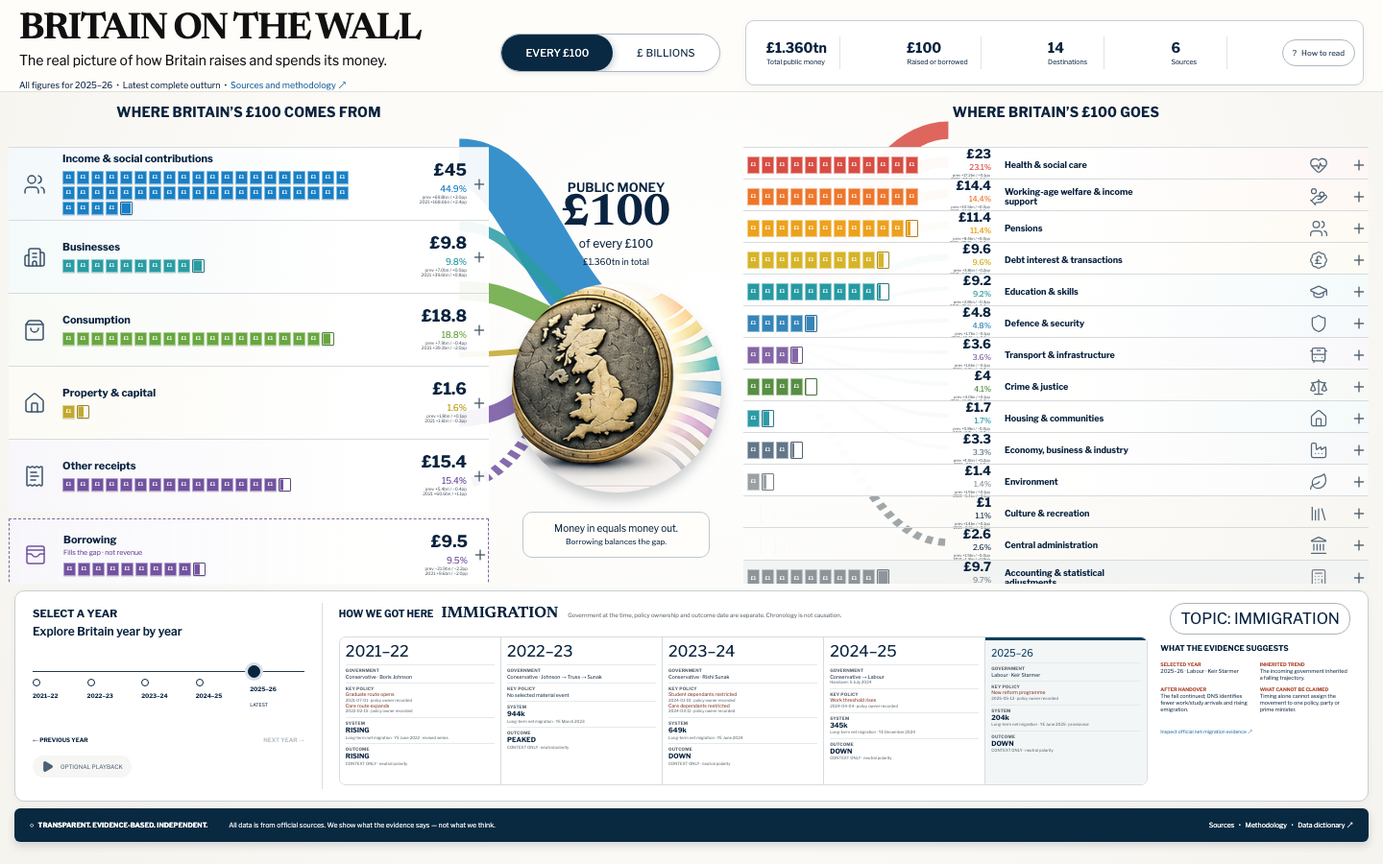
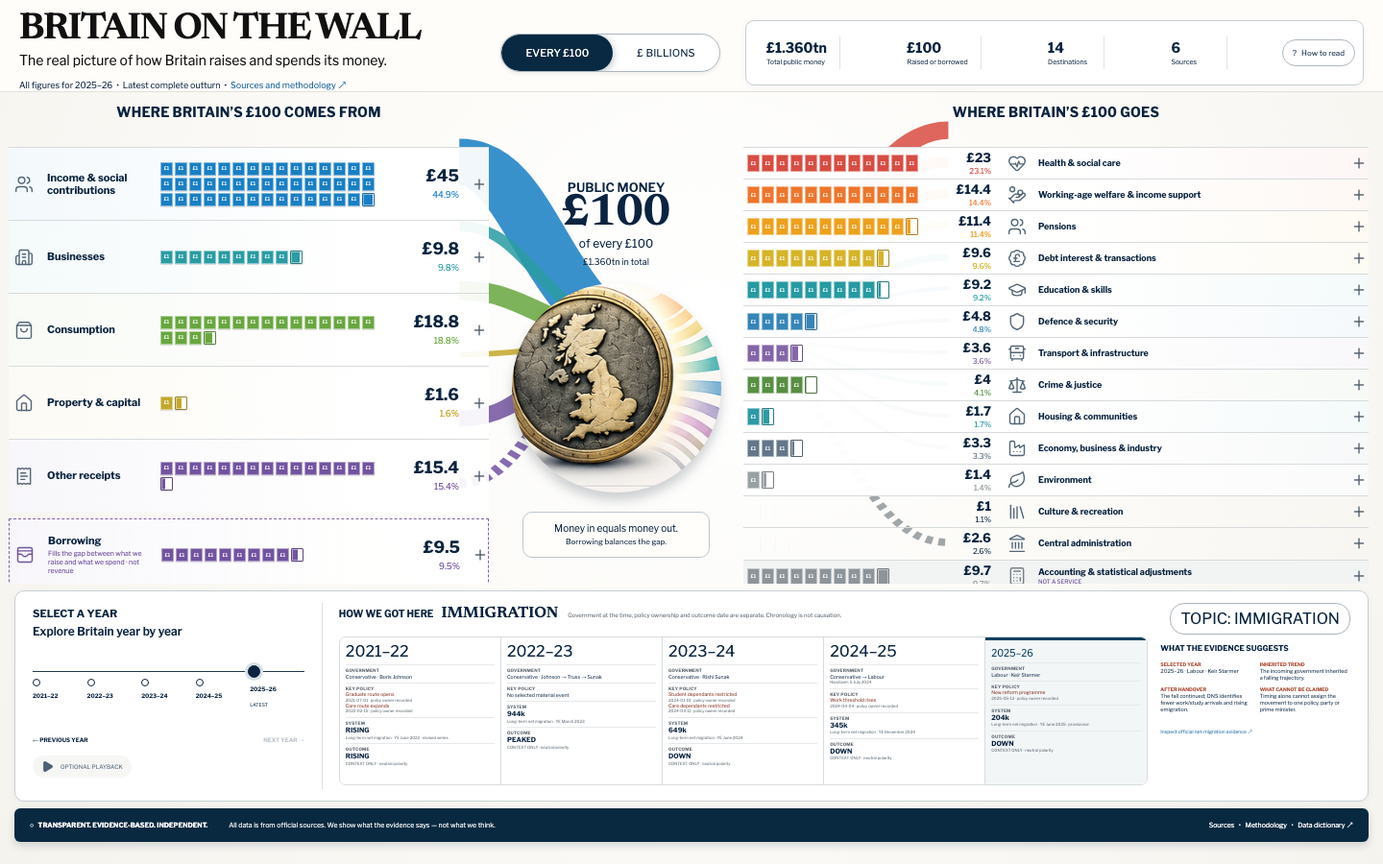
Remove national row artwork

diff --git a/src/national.css b/src/national.css
@@ -5,15 +5,15 @@ html:has(.national-wall),body:has(.national-wall),#root:has(.national-wall){widt
 .editorial-header{height:96px;display:grid;grid-template-columns:475px 245px 1fr;align-items:center;gap:18px;padding:13px 20px 9px;background:#fffdfa;border-bottom:1px solid #e3e1db}.brand-lockup{align-self:start}.wordmark{display:block;color:#111;text-decoration:none;font:650 38px/.95 Newsreader,Georgia,serif;letter-spacing:-.035em}.brand-lockup p{margin:5px 0 6px;color:#111;font-size:14px}.brand-lockup small{font-size:9px;color:var(--navy)}.brand-lockup small button{border:0;background:none;padding:0;color:#0e5d9c}.unit-toggle{display:flex;justify-self:center;border:1px solid #adb7c0;border-radius:24px;overflow:hidden;background:white;box-shadow:0 2px 4px #09223a12}.unit-toggle button{height:38px;border:0;background:transparent;padding:0 25px;font-size:11px}.unit-toggle .active{background:#092942;color:white;border-radius:22px;box-shadow:0 2px 8px #09294255}.header-summary{height:68px;display:flex;align-items:center;justify-content:space-between;border:1px solid #c7ced3;border-radius:9px;padding:7px 8px;background:#fff;box-shadow:0 2px 8px #14263a0b}.header-summary>span{min-width:72px;padding:3px 13px;border-right:1px solid #e1e4e5}.header-summary b,.header-summary small{display:block}.header-summary b{font-size:14px}.header-summary small{font-size:7px;margin-top:2px}.header-summary>button{border:1px solid #aeb8bf;border-radius:18px;background:white;padding:8px 10px;font-size:8px;white-space:nowrap}.read-note{position:absolute;right:20px;top:90px;z-index:20;width:300px;padding:12px;background:#fff;border:1px solid var(--rule);box-shadow:0 7px 18px #14263a1f;font-size:10px}
 .money-stage{height:512px;display:grid;grid-template-columns:500px 265px 1fr;gap:0;padding:9px 15px 0 9px;position:relative;overflow:hidden}.fiscal-column,.pool-column{position:relative;z-index:2}.section-heading{height:43px;text-align:center}.section-heading small{display:none}.section-heading h1{margin:5px 0 0;font-size:14px;line-height:1;text-transform:uppercase;letter-spacing:.015em}.section-heading h1 br{display:none}.section-heading h1 em{font-style:normal}
 .editorial-flows{position:absolute;inset:0;width:100%;height:100%;z-index:1;pointer-events:none}.editorial-flows path{fill:none;stroke-linecap:butt;opacity:.86}.editorial-flows .borrow-flow,.editorial-flows .technical-flow{stroke-dasharray:7 6}
-.fiscal-row{width:100%;border:0;border-top:1px solid #d7dbdc;background:linear-gradient(90deg,color-mix(in srgb,var(--row-colour) 8%,#fff) 0,#ffffffda 72%);text-align:left;padding:0;position:relative}.fiscal-row:hover{background:#fff}.sources .fiscal-row{height:76px;display:grid;grid-template-columns:56px 326px 100px 18px;align-items:center}.row-copy strong,.row-copy small{display:block}.sources .row-copy{align-self:center}.sources .row-copy strong{font-size:11px;line-height:1.15}.row-copy small{font-size:7px;margin-top:2px;color:#7253a0}.row-number{text-align:right;padding-right:5px}.row-number b,.row-number em,.row-number small{display:block}.row-number b{font-size:17px;line-height:1}.row-number em{font-size:9px;font-style:normal;color:var(--row-colour);margin-top:5px}.row-number small{font-size:6px;color:var(--muted);margin-top:2px}.row-number small span{display:block}.expand{font-size:16px;color:#55636f}
+.fiscal-row{width:100%;border:0;border-top:1px solid #d7dbdc;background:linear-gradient(90deg,color-mix(in srgb,var(--row-colour) 8%,#fff) 0,#ffffffda 72%);text-align:left;padding:0;position:relative}.fiscal-row:hover{background:#fff}.sources .fiscal-row{height:76px;display:grid;grid-template-columns:32px minmax(110px,1fr) 220px 88px 18px;column-gap:8px;align-items:center}.row-icon{display:grid;place-items:center;color:#536779}.row-icon svg{width:20px;height:20px;stroke-width:1.7}.row-copy strong,.row-copy small{display:block}.sources .row-copy{align-self:center}.sources .row-copy strong{font-size:11px;line-height:1.15}.row-copy small{font-size:7px;margin-top:2px;color:#7253a0}.row-number{text-align:right;padding-right:5px}.row-number b,.row-number em{display:block}.row-number b{font-size:17px;line-height:1}.row-number em{font-size:9px;font-style:normal;color:var(--row-colour);margin-top:5px}.expand{font-size:16px;color:#55636f}
 .unit-tokens{display:grid;grid-template-columns:repeat(20,13px);grid-auto-rows:14px;gap:2px;margin-top:6px;max-width:298px}.unit-tokens i{position:relative;width:13px;height:14px;background:var(--token-colour);border-radius:1px;box-shadow:inset 0 0 0 1px #ffffff77,0 1px 1px #0002}.unit-tokens i:after{content:'£1';position:absolute;inset:0;display:grid;place-items:center;color:white;font-style:normal;font-size:5px;line-height:1}.unit-tokens i.partial{background:linear-gradient(90deg,var(--token-colour) var(--fill),transparent var(--fill));border:1px solid color-mix(in srgb,var(--token-colour) 70%,#333)}.unit-tokens i.partial:after{display:none}.fiscal-row.borrowing{margin-top:7px;border:1px dashed #8064a2;background:#faf8fc}
-.destinations .fiscal-row{height:33px;display:grid;grid-template-columns:185px 78px 150px minmax(54px,1fr) 20px;align-items:center;background:linear-gradient(90deg,#fff 0,#ffffffea 55%,color-mix(in srgb,var(--row-colour) 5%,#fff))}.destinations .row-copy{display:contents}.destinations .unit-tokens{grid-column:1;grid-row:1;margin:0 0 0 4px;display:flex;gap:2px;max-width:180px;overflow:hidden}.destinations .unit-tokens i{width:13px;height:18px;flex:0 0 13px}.destinations .row-number{grid-column:2;grid-row:1}.destinations .row-number b{font-size:13px}.destinations .row-number em{font-size:8px;margin-top:2px}.destinations .row-number small{display:none}.destinations .row-copy strong{grid-column:3;grid-row:1;padding-left:9px;font-size:9px;line-height:1.08}.destinations .row-copy>small{grid-column:3;grid-row:1;align-self:end;padding:0 0 3px 9px;font-size:6px}.destinations .expand{grid-column:5;grid-row:1;text-align:center}.destinations .technical{margin-top:1px;background:#f2f3f3}.destinations .technical .unit-tokens i{background:#8d959a}
+.destinations .fiscal-row{height:33px;display:grid;grid-template-columns:185px 70px 28px minmax(120px,1fr) 20px;column-gap:8px;align-items:center;background:linear-gradient(90deg,#fff 0,#ffffffea 55%,color-mix(in srgb,var(--row-colour) 5%,#fff))}.destinations .unit-tokens{grid-column:1;grid-row:1;margin:0 0 0 4px;display:flex;gap:2px;max-width:180px;overflow:hidden}.destinations .unit-tokens i{width:13px;height:18px;flex:0 0 13px}.destinations .row-number{grid-column:2;grid-row:1}.destinations .row-number b{font-size:13px}.destinations .row-number em{font-size:8px;margin-top:2px}.destinations .row-icon{grid-column:3;grid-row:1}.destinations .row-copy{grid-column:4;grid-row:1}.destinations .row-copy strong{font-size:9px;line-height:1.08}.destinations .row-copy>small{font-size:6px}.destinations .expand{grid-column:5;grid-row:1;text-align:center}.destinations .technical{margin-top:1px;background:#f2f3f3}.destinations .technical .unit-tokens i{background:#8d959a}
 .pool-column{display:flex;flex-direction:column;align-items:center;text-align:center;padding-top:82px}.pool-label span,.pool-label strong,.pool-label em,.pool-label small{display:block}.pool-label span{font-size:13px;font-weight:600}.pool-label strong{font:650 45px/.95 Newsreader,Georgia,serif}.pool-label em{font-style:normal;font-size:12px}.pool-label small{font-size:9px;margin-top:6px}.pool-object{width:218px;height:218px;margin-top:17px;border-radius:50%;background:url('/illustrations/britain-medallion-reference.png') center/cover no-repeat;filter:drop-shadow(0 8px 6px #17253636)}.pool-object:before,.britain-mark{display:none}.pool-column>p{width:195px;margin:20px 0 0;padding:10px 12px;border:1px solid #bec7cc;border-radius:10px;background:#fffefa;font-size:10px;line-height:1.3}.pool-column>p small{font-size:8px}
 .lower-editorial{height:220px;margin:7px 15px;border:1px solid #c9cfd2;border-radius:10px;background:#fff;display:grid;grid-template-columns:22% 78%;gap:0;padding:12px 18px;box-shadow:0 2px 10px #12263b0b}.time-panel{padding-right:18px;border-right:1px solid #d9dddf}.time-panel>small,.change-summary>small{font-size:11px;font-weight:700}.time-panel h2{font:600 12px Libre Franklin;margin:3px 0 0}.years{margin-top:34px;display:grid;grid-template-columns:repeat(5,1fr);border-top:1px solid #20384e}.years button{border:0;background:none;padding:0;text-align:left;transform:translateY(-5px)}.years i{display:block;width:8px;height:8px;border-radius:50%;border:1px solid #0a2440;background:white}.years b{display:block;font-size:6px;margin-top:6px}.years span{font-size:5px}.years .active i{width:13px;height:13px;background:#0a2440;box-shadow:0 0 0 3px #d8e0e5;transform:translate(-2px,-2px)}.story-button{margin-top:24px;border:0;border-radius:20px;background:#f3f3f1;padding:7px 12px;display:flex;align-items:center;gap:7px;font-size:8px}.story-button svg{width:17px;height:17px;fill:#0a2440}.change-summary{padding:0 18px;border-right:1px solid #d9dddf}.change-summary>div{display:grid;grid-template-columns:1fr 1fr;gap:8px 12px;margin-top:11px}.change-summary>div span{border-left:2px solid #319a5b;padding-left:6px}.change-summary b,.change-summary em{display:block;font-size:6.5px}.change-summary em{font-style:normal;margin-top:2px}.change-summary p{font-size:8px}.changes-button{float:right;margin-top:8px;border:1px solid #aeb8bf;border-radius:15px;background:#fff;padding:6px 12px;font-size:7px}.outcomes-panel{padding-left:17px}.outcomes-panel header{display:flex;justify-content:space-between}.outcomes-panel header small{font-size:11px;font-weight:700}.outcomes-panel header span{font-size:6px;color:var(--muted)}.outcomes-panel>div{display:grid;grid-template-columns:repeat(5,1fr);margin-top:23px}.outcomes-panel article{text-align:center;border-right:1px solid #e0e3e4}.outcomes-panel article:last-child{border:0}.outcomes-panel svg{width:30px;height:30px;stroke-width:1.5}.outcomes-panel b,.outcomes-panel span{display:block}.outcomes-panel b{font-size:7px;margin-top:6px}.outcomes-panel span{font-size:5px;color:var(--muted);margin-top:3px}
 .editorial-footer{height:35px;margin:0 15px 5px;border-radius:6px;background:#082940;color:white;display:flex;align-items:center;gap:22px;padding:0 16px;font-size:7px;box-shadow:0 4px 9px #09223a28}.editorial-footer span{opacity:.88}.editorial-footer nav{margin-left:auto}
 .drawer-scrim,.drawer{position:fixed}
-@media(min-width:1700px){.national-wall{max-width:1920px;margin:auto}.money-stage{grid-template-columns:630px 340px 1fr;height:666px}.sources .fiscal-row{grid-template-columns:60px 440px 110px 20px;height:99px}.destinations .fiscal-row{height:43px;grid-template-columns:250px 70px 180px minmax(54px,1fr) 22px}.lower-editorial{height:220px}}
-@media(max-width:1000px){.editorial-header{height:auto;grid-template-columns:1fr auto;padding:14px}.header-summary{grid-column:1/-1}.money-stage{height:auto;grid-template-columns:1fr;padding:15px}.editorial-flows{display:none}.pool-column{grid-row:1;padding:25px}.fiscal-column{max-width:720px;margin:auto;width:100%}.sources .fiscal-row{grid-template-columns:145px 1fr 90px 18px}.destinations .fiscal-row{height:45px;grid-template-columns:200px 60px 120px 1fr 20px}.lower-editorial{height:auto;grid-template-columns:1fr}.history-panel{border-right:0;border-bottom:1px solid;padding-bottom:20px}.outcomes-panel{padding:20px 0}.editorial-footer{height:auto;padding:12px;flex-wrap:wrap}.editorial-footer nav{margin-left:0}}
+@media(min-width:1700px){.national-wall{max-width:1920px;margin:auto}.money-stage{grid-template-columns:630px 340px 1fr;height:666px}.sources .fiscal-row{grid-template-columns:32px minmax(160px,1fr) 280px 100px 20px;height:99px}.destinations .fiscal-row{height:43px;grid-template-columns:250px 75px 30px minmax(150px,1fr) 22px}.lower-editorial{height:220px}}
+@media(max-width:1000px){.editorial-header{height:auto;grid-template-columns:1fr auto;padding:14px}.header-summary{grid-column:1/-1}.money-stage{height:auto;grid-template-columns:1fr;padding:15px}.editorial-flows{display:none}.pool-column{grid-row:1;padding:25px}.fiscal-column{max-width:720px;margin:auto;width:100%}.sources .fiscal-row{grid-template-columns:32px minmax(150px,1fr) 220px 90px 18px}.destinations .fiscal-row{height:45px;grid-template-columns:160px 70px 28px minmax(120px,1fr) 20px}.lower-editorial{height:auto;grid-template-columns:1fr}.history-panel{border-right:0;border-bottom:1px solid;padding-bottom:20px}.outcomes-panel{padding:20px 0}.editorial-footer{height:auto;padding:12px;flex-wrap:wrap}.editorial-footer nav{margin-left:0}}
 @media(prefers-reduced-motion:reduce){*{animation:none!important;transition:none!important}}
 .event-dot.dependants span,.event-dot.dependants small{transform:translateX(-42px)}
 .event-dot.salary span,.event-dot.salary small{transform:translateX(34px)}
@@ -22,23 +22,16 @@ html:has(.national-wall),body:has(.national-wall),#root:has(.national-wall){widt
 .years:focus-visible{outline:2px solid #17658d;outline-offset:5px}.year-step{display:flex;justify-content:space-between;margin-top:22px}.year-step button{border:0;background:none;padding:0;font-size:6px;font-weight:700}.year-step button:disabled{opacity:.28}.time-panel .story-button{margin-top:13px;padding:5px 9px;font-size:6px;opacity:.72}.time-panel .story-button svg{width:13px;height:13px}.selected-window{position:absolute;top:0;height:27px;background:#e8d9b755;border:1px solid #c9a75c;z-index:0}.government-track .track-line>button{z-index:1}
 .story-chronology{min-width:0;padding-left:17px}.story-chronology>header{height:35px;display:flex;align-items:flex-start;justify-content:space-between}.story-chronology header small{font-size:10px;font-weight:700}.story-chronology header h2{display:inline;margin:0 0 0 8px;font:650 16px Newsreader,Georgia,serif;text-transform:uppercase}.story-chronology header span{display:inline;margin-left:10px;font-size:6px;color:#68727a}.topic-selector{border:1px solid #aab5bd;background:#fff;border-radius:15px;padding:6px 10px;font-size:7px}.story-body{display:grid;grid-template-columns:minmax(0,75%) 25%;height:155px}.story-tracks{position:relative;padding-right:13px;border-right:1px solid #d9dddf}.story-track{height:35px;display:grid;grid-template-columns:115px 1fr;align-items:center}.story-track>b{font-size:6px;letter-spacing:.04em}.track-line{height:27px;position:relative;border-bottom:1px solid #cbd1d4}.government-track .track-line>button{position:absolute;top:4px;height:21px;border:0;border-left:2px solid #6c7881;background:#eef0ef;text-align:left;padding:3px 5px;overflow:hidden}.government-track .track-line>button:last-of-type{background:#eeeae4}.government-track strong,.government-track small{display:block;white-space:nowrap;font-size:6px}.government-track small{font-size:5px;color:#68727a}.handover{position:absolute;top:-4px;height:35px;border-left:2px solid #c45c43;z-index:5}.handover span{position:absolute;top:-7px;left:3px;font:700 5px Libre Franklin;color:#a84433}.policy-track{height:48px}.policy-track .track-line{height:44px}.event-dot{position:absolute;top:1px;width:58px;transform:translateX(-3px);border:0;background:none;text-align:left;padding:0}.event-dot.row-1{top:15px}.event-dot.row-2{top:29px}.event-dot>i{display:block;width:7px;height:7px;border-radius:50%;background:#b25b3d;border:2px solid #fff;box-shadow:0 0 0 1px #b25b3d}.event-dot span,.event-dot small{display:block;font-size:5px;line-height:1.05}.event-dot small{color:#9b4d38;font-size:4px;margin-top:1px}.system-track{height:38px}.system-track .track-line{height:32px}.trend svg{position:absolute;inset:1px 0 0;width:100%;height:28px;overflow:visible}.trend path{fill:none;stroke:#267e91;stroke-width:2}.trend line{stroke:#c45c43;stroke-width:.35;stroke-dasharray:2 1}.trend>button{position:absolute;top:0;transform:translateX(-5px);border:0;background:none;padding:0;text-align:left}.trend>button i{display:block;width:7px;height:7px;border-radius:50%;background:#267e91}.trend>button strong,.trend>button span{display:block;font-size:5px;white-space:nowrap}.trend>button span{font-size:4px}.outcome-track{height:28px}.outcome-track .track-line{display:flex;align-items:center;justify-content:space-between;border-bottom:0}.outcome-track span,.outcome-track em{font-size:5px}.outcome-track em{font-style:normal;font-weight:700;color:#267e91}.story-years{position:absolute;left:115px;right:13px;bottom:-1px}.story-years span{position:absolute;font-size:5px;color:#6c757c}.evidence-summary{padding-left:13px}.evidence-summary>b{font-size:8px}.evidence-summary dl{margin:7px 0;display:grid;grid-template-columns:1fr 1fr;gap:5px 9px}.evidence-summary dl>div{margin:0}.evidence-summary dt{font-size:5px;font-weight:700;color:#b1533c}.evidence-summary dd{margin:1px 0 0;font-size:5.5px;line-height:1.25}.evidence-summary p{margin:4px 0;padding-top:5px;border-top:1px solid #d6dadd;font-size:6px}.evidence-summary p strong{color:#b1533c}
 
-/* Clean national UI: functional icon + label, never decorative scene art. */
-.sources .fiscal-row{grid-template-columns:56px 326px 100px 18px;background:linear-gradient(90deg,color-mix(in srgb,var(--row-colour) 5%,#fff),#ffffffed 72%)}
-.category-icon{display:grid;place-items:center;color:var(--row-colour)}
-.category-icon svg{width:24px;height:24px;stroke-width:1.5}
-.sources .category-icon{width:42px;height:42px;margin-left:6px;color:#38536a}
-.sources .unit-tokens{grid-template-columns:repeat(20,13px);max-width:298px}
-.destinations .fiscal-row{grid-template-columns:185px 78px 150px minmax(54px,1fr) 20px}
-.destinations .row-copy strong,.destinations .row-copy>small{grid-column:3}
-.destinations .category-icon{grid-column:4;grid-row:1;justify-self:end;width:48px;height:28px;margin-right:8px;color:#536779}
-.destinations .category-icon svg{width:20px;height:20px}
-.fiscal-row.borrowing .category-icon{color:#7253a0}
-.fiscal-row.technical .category-icon{color:#778087}
+/* Clean national UI: functional icon + label, never decorative row artwork. */
+.sources .fiscal-row{background:linear-gradient(90deg,color-mix(in srgb,var(--row-colour) 5%,#fff),#ffffffed 72%)}
+.sources .unit-tokens{grid-template-columns:repeat(15,13px);max-width:220px;margin-top:0}
+.fiscal-row.borrowing .row-icon{color:#7253a0}
+.fiscal-row.technical .row-icon{color:#778087}
 @media(max-width:600px){
   .national-wall{overflow-x:hidden}.editorial-header{grid-template-columns:1fr;gap:10px;padding:14px}.wordmark{font-size:36px;max-width:330px}.brand-lockup p{max-width:340px;line-height:1.25}.header-unit-toggle{justify-self:start}.header-summary{grid-column:1;width:100%;height:58px}.header-summary>span{min-width:0;flex:1;padding:3px 7px}.header-summary>button{display:none}
   .money-stage{padding:12px 14px}.pool-column{padding:28px 0 34px}.pool-object{width:210px;height:210px}
-  .sources .fiscal-row{grid-template-columns:46px minmax(0,1fr) 82px 18px}.sources .category-icon{width:36px;height:36px;margin-left:1px}.sources .unit-tokens{grid-template-columns:repeat(10,13px);max-width:148px}
-  .destinations .fiscal-row{grid-template-columns:120px 65px minmax(0,1fr) 34px 18px}.destinations .unit-tokens{max-width:116px}.destinations .category-icon{width:30px;margin-right:1px}.destinations .row-copy strong{padding-left:5px;font-size:8px}
+  .sources .fiscal-row{grid-template-columns:28px minmax(100px,1fr) minmax(130px,148px) 72px 18px;column-gap:4px}.sources .unit-tokens{grid-template-columns:repeat(10,13px);max-width:148px}
+  .destinations .fiscal-row{grid-template-columns:116px 58px 24px minmax(100px,1fr) 18px;column-gap:4px}.destinations .unit-tokens{max-width:116px}.destinations .row-copy strong{font-size:8px}
   .lower-editorial{margin:7px 10px;padding:14px;grid-template-columns:1fr}.time-panel{padding:0 0 14px;border-right:0;border-bottom:1px solid #d9dddf}.story-chronology{padding:14px 0 0}.story-body{grid-template-columns:1fr;height:auto}.story-tracks{border-right:0;padding-right:0}.evidence-summary{padding:12px 0 0}.story-chronology>header{height:auto;gap:8px}.story-chronology header span{display:block;margin:4px 0}.topic-selector{white-space:nowrap}
 }
 

diff --git a/src/App.test.tsx b/src/App.test.tsx
@@ -9,8 +9,8 @@ describe('approved £100 national Wall',()=>{
   it('states the public-money question in the primary composition',()=>{render(<App/>);expect(screen.getByRole('heading',{name:'Where Britain’s £100 comes from'})).toBeInTheDocument();expect(screen.getByRole('heading',{name:'Where Britain’s £100 goes'})).toBeInTheDocument();expect(screen.getByText('of every £100')).toBeInTheDocument()});
   it('shows the reconciled real national pool',()=>{render(<App/>);expect(screen.getAllByText('£1.360tn').length).toBeGreaterThan(0);expect(screen.getAllByText('£100').length).toBeGreaterThan(0);expect(screen.getByText('Raised or borrowed')).toBeInTheDocument()});
   it('uses the approved stable source order',()=>{render(<App/>);const sources=screen.getAllByRole('button',{name:/percent\. Previous:/}).slice(0,6);expect(sources[0]).toHaveAccessibleName(/Income & social contributions £45, 44.9 percent/);expect(sources[1]).toHaveAccessibleName(/Businesses £9.8/)});
-  it('orders Health as the largest destination with sensible display precision',()=>{render(<App/>);const health=screen.getByRole('button',{name:/Health & social care £23, 23.1 percent/});expect(health).toHaveTextContent('£23');expect(health).toHaveTextContent('23.1%');expect(health).toHaveTextContent(/prev/)});
-  it('keeps borrowing visibly separate from receipts',()=>{render(<App/>);const borrowing=screen.getByRole('button',{name:/Borrowing £9.5/});expect(borrowing).toHaveClass('borrowing');expect(borrowing).toHaveTextContent('Fills the gap · not revenue')});
+  it('orders Health as the largest destination with sensible display precision',()=>{render(<App/>);const health=screen.getByRole('button',{name:/Health & social care £23, 23.1 percent/});expect(health).toHaveTextContent('£23');expect(health).toHaveTextContent('23.1%')});
+  it('keeps borrowing visibly separate from receipts',()=>{render(<App/>);const borrowing=screen.getByRole('button',{name:/Borrowing £9.5/});expect(borrowing).toHaveClass('borrowing');expect(borrowing).toHaveTextContent('Fills the gap between what we raise and what we spend · not revenue')});
   it('treats technical reconciliation as not a service',()=>{render(<App/>);const technical=screen.getByRole('button',{name:/Accounting & statistical adjustments/});expect(technical).toHaveClass('technical');expect(technical).toHaveTextContent('NOT A SERVICE')});
   it('switches numeric hierarchy without changing taxonomy',async()=>{render(<App/>);await userEvent.click(screen.getByRole('button',{name:'£ BILLIONS'}));expect(screen.getByRole('button',{name:/Health & social care £313.7bn, 23.1 percent/})).toHaveTextContent('23.1%');expect(screen.getByRole('button',{name:/Income & social contributions £610.7bn, 44.9 percent/})).toBeInTheDocument()});
   it('keeps the selected unit in the shareable URL',async()=>{render(<App/>);await userEvent.click(screen.getByRole('button',{name:'£ BILLIONS'}));expect(location.search).toContain('unit=bn')});
@@ -23,5 +23,5 @@ describe('approved £100 national Wall',()=>{
   it('opens story evidence in place',async()=>{render(<App/>);await userEvent.click(screen.getByRole('button',{name:'2021–22'}));await userEvent.click(screen.getByRole('button',{name:/Graduate route opens/}));expect(screen.getByRole('heading',{name:'Graduate route opened'})).toBeInTheDocument();expect(screen.getByText(/chronology alone is never treated as causation/i)).toBeInTheDocument()});
   it('contains proportional physical unit tokens and flow paths',()=>{const{container}=render(<App/>);expect(container.querySelectorAll('.unit-tokens i').length).toBeGreaterThan(190);expect(container.querySelectorAll('.editorial-flows path')).toHaveLength(20)});
   it('never renders or references the rejected national scene system',()=>{const{container}=render(<App/>);expect(container.querySelector('.scene')).toBeNull();const forbidden=['source'+'Scene','destination'+'Scene','scene'+'-x','scene'+'-y','className="'+'scene"','fiscal-'+'sources-v1'+'.png','fiscal-'+'destinations-v1'+'.png'];forbidden.forEach(term=>{expect(nationalSource).not.toContain(term);expect(nationalCss).not.toContain(term)})});
-  it('uses consistent functional icons and visible percentages in fiscal rows',()=>{const{container}=render(<App/>);expect(container.querySelectorAll('.fiscal-row .category-icon svg')).toHaveLength(20);expect(screen.getByRole('button',{name:/Health & social care/})).toHaveTextContent('23.1%')});
+  it('uses consistent functional icons and visible percentages in fiscal rows',()=>{const{container}=render(<App/>);expect(container.querySelectorAll('.fiscal-row .row-icon svg')).toHaveLength(20);expect(screen.getByRole('button',{name:/Health & social care/})).toHaveTextContent('23.1%')});
 });

diff --git a/src/components/NationalWall.tsx b/src/components/NationalWall.tsx
@@ -30,9 +30,10 @@ function FiscalRow({item,total,previousTotal,baseTotal,unit,direction,rank,openE
   const signed=(value:number,suffix:string)=>`${value>=0?'+':'−'}${Math.abs(value).toFixed(1)}${suffix}`;
   const comparison=`Previous: ${signed(cashDelta,'bn')}, ${signed(shareDelta,'pp')}. Since 2021–22: ${signed(baseCashDelta,'bn')}, ${signed(baseDelta,'pp')}.`;
   return <button style={{'--row-colour':colour} as React.CSSProperties} className={`fiscal-row ${direction} ${rank<3?'major':''} ${item.borrowing?'borrowing':''} ${item.technical?'technical':''}`} onClick={()=>openEvidence(item.evidenceId)} aria-label={`${item.name} ${money(item.value,total,unit)}, ${share.toFixed(1)} percent. ${comparison}`}>
-    <span className="category-icon" aria-hidden="true"><Icon/></span>
-    <span className="row-copy"><strong>{item.name}</strong>{item.borrowing&&<small>Fills the gap · not revenue</small>}{item.technical&&<small>NOT A SERVICE</small>}<UnitTokens share={share} colour={colour} tone={item.borrowing?'borrowing':item.technical?'technical':'standard'}/></span>
-    <span className="row-number"><b>{money(item.value,total,unit)}</b><em>{share.toFixed(1)}%</em><small title={comparison}><span>prev {signed(cashDelta,'bn')} / {signed(shareDelta,'pp')}</span><span>2021 {signed(baseCashDelta,'bn')} / {signed(baseDelta,'pp')}</span></small></span>
+    <span className="row-icon" aria-hidden="true"><Icon/></span>
+    <span className="row-copy"><strong>{item.name}</strong>{item.borrowing&&<small>Fills the gap between what we raise and what we spend · not revenue</small>}{item.technical&&<small>NOT A SERVICE</small>}</span>
+    <UnitTokens share={share} colour={colour} tone={item.borrowing?'borrowing':item.technical?'technical':'standard'}/>
+    <span className="row-number" title={comparison}><b>{money(item.value,total,unit)}</b><em>{share.toFixed(1)}%</em></span>
     <span className="expand" aria-hidden="true">＋</span>
   </button>;
 }
